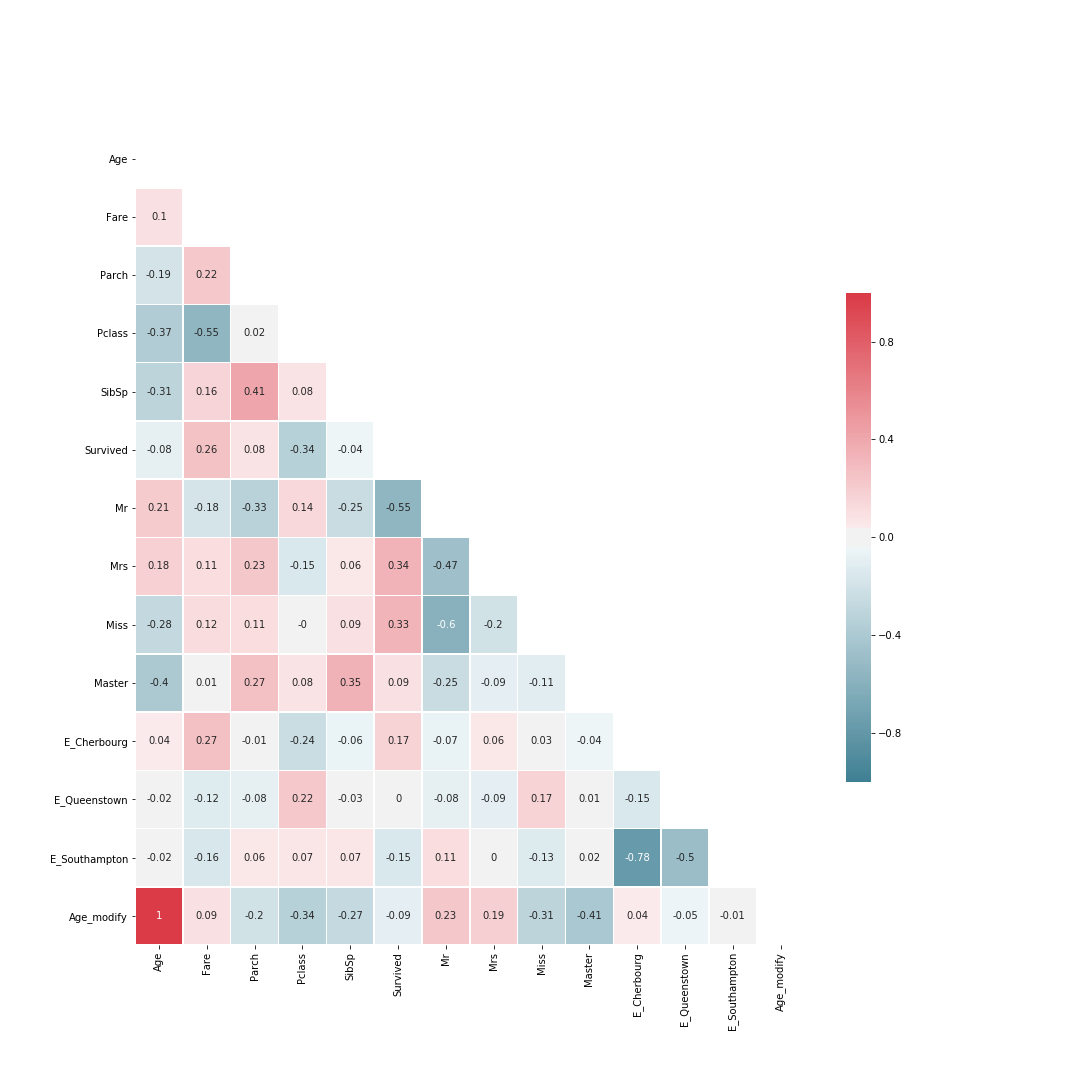
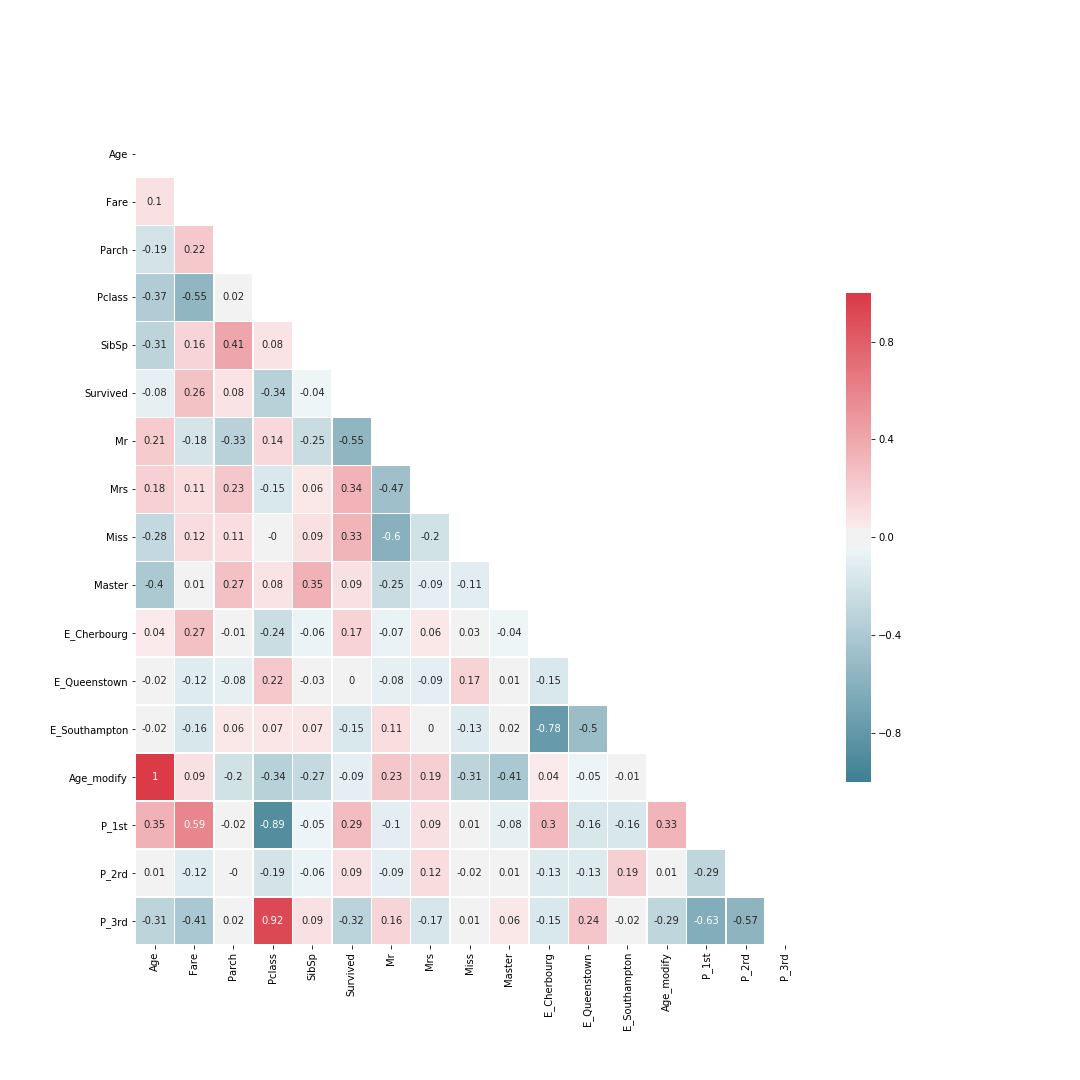
update

Changed region(s): [[0.0611, 0.1528, 0.7333, 0.9472], [0.0917, 0.1222, 0.1222, 0.1528]]

diff --git a/02_Modeling.py b/02_Modeling.py
@@ -1,0 +1,65 @@
+
+import pandas as pd
+
+from sklearn.model_selection import train_test_split
+from sklearn.linear_model import LogisticRegression
+from sklearn.metrics import roc_auc_score
+
+train = pd.read_csv('train_modify.csv', index_col=['PassengerId'])
+test = pd.read_csv('test_modify.csv', index_col=['PassengerId'])
+submission = pd.read_csv('gender_submission.csv')
+
+train.columns
+test.columns
+
+
+## Divid data
+def divid_data(df, feat):
+    X_train, X_valid, y_train, y_valid = train_test_split(df[feat], df['Survived'], 
+                                                          random_state=0, test_size=0.2)
+    
+    print("X_train : " + str(X_train.shape))
+    print("X_valid : " + str(X_valid.shape))
+    print("y_train : " + str(y_train.shape))
+    print("y_valid : " + str(y_valid.shape) + '\n')
+    
+    print("download frequency of y_train : ")
+    print(y_train.value_counts())
+    
+    print("download frequency of y_valid : ")
+    print(y_valid.value_counts())
+    
+    return X_train, X_valid, y_train, y_valid
+
+
+
+def logistic(train_df, test_df, feat, c=1):
+    print("When C=%.2f :" %c)    
+    
+    ## Divid Dataset
+    X_train, X_valid, y_train, y_valid = divid_data(train_df, feat)
+    
+    ## Train the model
+    log = LogisticRegression(C=c)
+    log.fit(X_train, y_train)
+        
+    ## Evaluate the model
+    train_score = log.score(X_train, y_train)
+    valid_score = log.score(X_valid, y_valid)
+    
+    print("Accuracy of train data : %.2f" % train_score)
+    print("Accuracy od valid data : %.2f" % valid_score)
+    
+        
+    ## Predict target variable
+    pred = log.predict(test_df[feat])      
+    
+    return pred
+
+feat = ['Sex', 'Mr', 'Mrs', 'Miss', 'Master', 
+        'E_Cherbourg', 'E_Queenstown', 'E_Southampton']
+pred = logistic(train, test, feat)
+submission['Survived'] = pred
+submission.to_csv('submission/logistic_1.csv', index=False)
+
+del submission['is_attributed']

diff --git a/01_EDA.py b/01_EDA.py
@@ -281,6 +281,10 @@ merged.loc[merged['Embarked'].isnull(), 'Embarked'] = 2
 
 
 # Do one-hot encoding
+temp = pd.get_dummies(merged.Pclass)
+temp.columns = ['P_1st', 'P_2rd', 'P_3rd']
+merged = pd.concat([merged, temp], axis=1)
+
 temp = pd.get_dummies(merged.Embarked)
 temp.columns = ['E_Cherbourg', 'E_Queenstown', 'E_Southampton']
 merged = pd.concat([merged, temp], axis=1)

diff --git a/01_EDA.md b/01_EDA.md
@@ -458,6 +458,14 @@ merged.loc[merged['Embarked'].isnull(), 'Embarked'] = 2
 ### Do one-hot encoding
 
 ```python
+temp = pd.get_dummies(merged.Pclass)
+temp.columns = ['P_1st', 'P_2rd', 'P_3rd']
+merged = pd.concat([merged, temp], axis=1)
+```
+
+<br>
+
+```python
 temp = pd.get_dummies(merged.Embarked)
 temp.columns = ['E_Cherbourg', 'E_Queenstown', 'E_Southampton']
 merged = pd.concat([merged, temp], axis=1)
